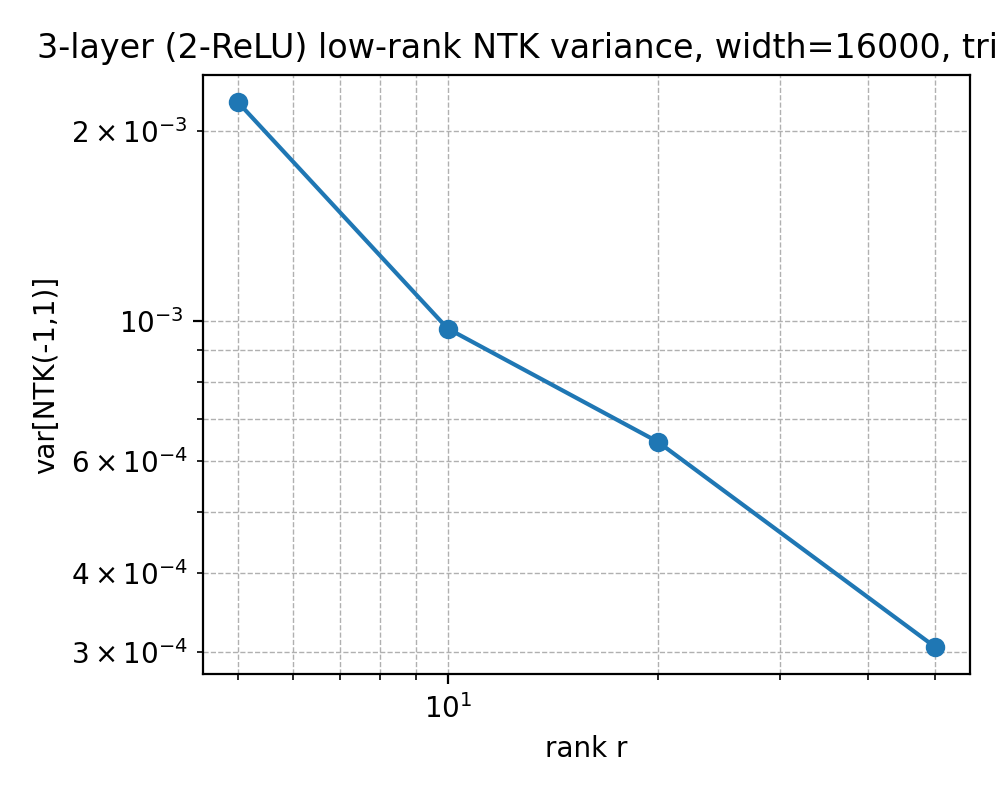
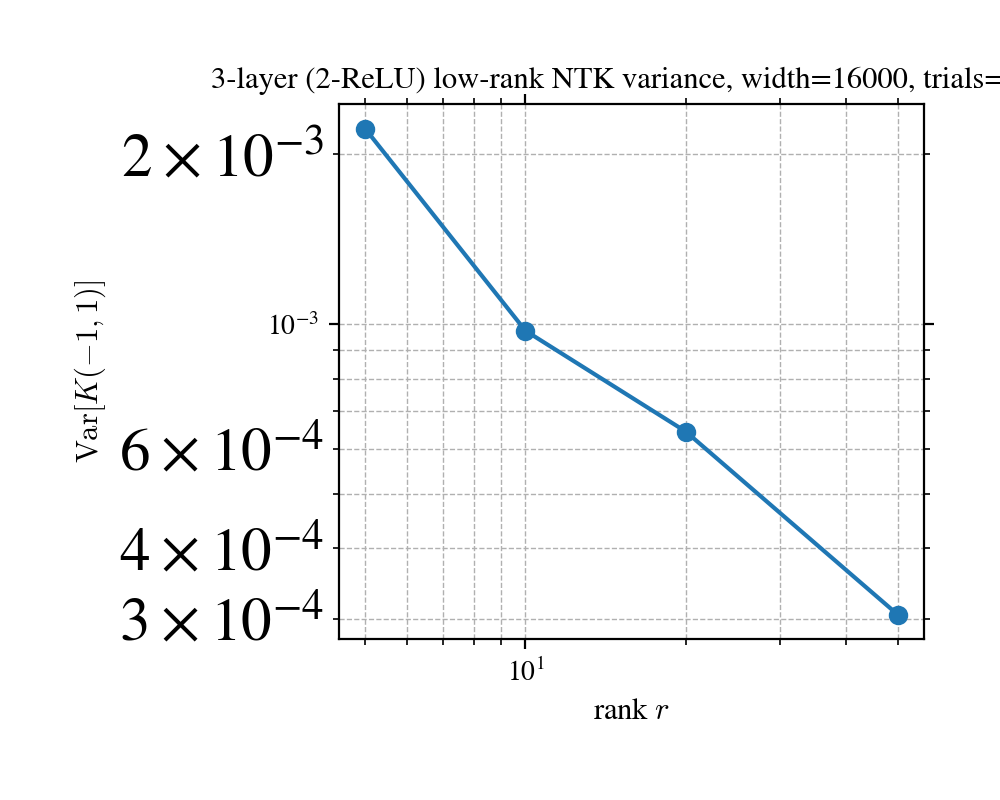
before reruning

diff --git a/experiments/ntkvariance/condition_number_highdim_spherical.py b/experiments/ntkvariance/condition_number_highdim_spherical.py
@@ -122,65 +122,68 @@ def proxy_gram_from_rho(r: int, L: int, rho_mat: np.ndarray) -> np.ndarray:
 def main() -> None:
     width = 16000
     n = 32
-    d = 256
     L_val = 2
     n_trials = 30
     seed_data = 123
     seed_init = 200
 
-    ranks = [5, 10, 15, 20, 30, 50, 75, 100]
-
-    rng_data = np.random.default_rng(seed_data)
-    x = sample_unit_sphere(n=n, d=d, rng=rng_data)
-    rho_mat = x.T @ x
-    np.fill_diagonal(rho_mat, 1.0)
-    max_off = float(np.max(np.abs(rho_mat - np.eye(n))))
-    print(f"high-dim spherical: d={d}, n={n}, max_{{|rho_ij|}} (i!=j) = {max_off:.4f} (expect O(1/sqrt(d)) ~ {1/math.sqrt(d):.4f})")
-
-    proxy_kappas = []
-    for r in ranks:
-        M = proxy_gram_from_rho(r=r, L=L_val, rho_mat=rho_mat)
-        kappa = condition_number_centered(M)
-        proxy_kappas.append(kappa)
-
-    emp_means = []
-    emp_stds = []
-    for r in ranks:
-        kappas = np.empty((n_trials,), dtype=np.float64)
-        for t in range(n_trials):
-            rng = np.random.default_rng(seed_init + 1000 * r + t)
-            K = empirical_ntk_gram_3layer(width=width, r=r, x=x, rng=rng)
-            kappas[t] = condition_number_centered(K)
-        emp_means.append(float(kappas.mean()))
-        emp_stds.append(float(kappas.std(ddof=1)))
+    ranks = [10, 15, 20, 30, 50, 75, 100, 200]
+    dims = [(256, "C0", "C0"), (128, "red", "red")]  # (d, proxy_color, empirical_color); d=256 both blue
 
     fig, ax = plt.subplots(1, 1, figsize=(6, 5))
     ax.axhline(1.0, color="gray", linestyle="--", linewidth=1.5, label=r"$\kappa_\perp=1$ (equicorrelated limit)")
-    ax.plot(ranks, proxy_kappas, marker="s", color="C0", label="proxy (from sampled $\\rho_{ij}$)")
-    ax.errorbar(
-        ranks,
-        emp_means,
-        yerr=emp_stds,
-        marker="o",
-        capsize=3,
-        color="C1",
-        label="empirical (mean $\\pm$ std)",
-    )
-    ax.set_xlabel("bottleneck rank $r$")
-    ax.set_ylabel(r"condition number $\kappa$ on $\mathbf{1}^\perp$")
-    ax.set_title(f"High-dim spherical: i.i.d. uniform on $S^{{d-1}}$, $d$={d}, $n$={n}, $L$={L_val}")
+
+    for d, proxy_color, emp_color in dims:
+        rng_data = np.random.default_rng(seed_data + d)
+        x = sample_unit_sphere(n=n, d=d, rng=rng_data)
+        rho_mat = x.T @ x
+        np.fill_diagonal(rho_mat, 1.0)
+        max_off = float(np.max(np.abs(rho_mat - np.eye(n))))
+        print(f"high-dim spherical: d={d}, n={n}, max_{{|rho_ij|}} (i!=j) = {max_off:.4f} (expect O(1/sqrt(d)) ~ {1/math.sqrt(d):.4f})")
+
+        proxy_kappas = []
+        for r in ranks:
+            M = proxy_gram_from_rho(r=r, L=L_val, rho_mat=rho_mat)
+            kappa = condition_number_centered(M)
+            proxy_kappas.append(kappa)
+
+        emp_means = []
+        emp_stds = []
+        for r in ranks:
+            kappas = np.empty((n_trials,), dtype=np.float64)
+            for t in range(n_trials):
+                rng = np.random.default_rng(seed_init + 1000 * r + t + d * 10000)
+                K = empirical_ntk_gram_3layer(width=width, r=r, x=x, rng=rng)
+                kappas[t] = condition_number_centered(K)
+            emp_means.append(float(kappas.mean()))
+            emp_stds.append(float(kappas.std(ddof=1)))
+
+        ax.plot(ranks, proxy_kappas, marker="s", color=proxy_color, label=f"proxy, d={d}")
+        ax.errorbar(
+            ranks,
+            emp_means,
+            yerr=emp_stds,
+            marker="o",
+            capsize=3,
+            color=emp_color,
+            label=f"empirical d={d} (mean ± std)",
+        )
+        for i, r in enumerate(ranks):
+            print(f"d={d} r={r:>3d}  proxy_kappa={proxy_kappas[i]:.4f}  emp_mean={emp_means[i]:.4f}  emp_std={emp_stds[i]:.4f}")
+
+    ax.set_xlabel("bottleneck rank $r$", fontsize=10)
+    ax.set_ylabel(r"condition number $\kappa$ on $\mathbf{1}^\perp$", fontsize=10)
+    ax.set_title(f"High-dim spherical: i.i.d. uniform on $S^{{d-1}}$, $n$={n}, $L$={L_val}", fontsize=10)
+    ax.tick_params(axis="both", labelsize=9)
     ax.set_xscale("log")
     ax.set_yscale("log")
     ax.grid(True, which="both", linestyle="--", linewidth=0.5)
-    ax.legend(loc="upper right", fontsize=10)
+    ax.legend(loc="upper right", fontsize=9)
     ax.set_ylim(bottom=0.5)
     plt.tight_layout()
     out_dir = Path(__file__).resolve().parent
     plt.savefig(out_dir / "condition_number_highdim_spherical.png", dpi=300)
     plt.close()
-
-    for i, r in enumerate(ranks):
-        print(f"r={r:>3d}  proxy_kappa={proxy_kappas[i]:.4f}  emp_mean={emp_means[i]:.4f}  emp_std={emp_stds[i]:.4f}")
 
 
 if __name__ == "__main__":

diff --git a/experiments/ntkvariance/minimalvariance.py b/experiments/ntkvariance/minimalvariance.py
@@ -70,7 +70,7 @@ def ntk_entry_pair(width: int, r: int, x: float, xp: float, rng: np.random.Gener
 
 def main() -> None:
     width = 16000
-    ranks = [5, 10, 20, 50]
+    ranks = [5, 10, 20, 50, 75, 100]  # up to e2
     n_trials = 100
     x = -1.0
     xp = 1.0
@@ -87,15 +87,22 @@ def main() -> None:
         means.append(float(values.mean()))
         variances.append(float(values.var(ddof=1)))
 
-    plt.figure(figsize=(5, 4))
-    plt.loglog(ranks, variances, marker="o")
-    plt.xlabel("rank r")
-    plt.ylabel("var[NTK(-1,1)]")
-    plt.title(f"3-layer (2-ReLU) low-rank NTK variance, width={width}, trials={n_trials}")
-    plt.grid(True, which="both", linestyle="--", linewidth=0.5)
+    fig, ax = plt.subplots(1, 1, figsize=(5, 4))
+    ax.loglog(ranks, variances, marker="o", label="empirical")
+    r_min, v_min = ranks[0], variances[0]
+    r_ref = np.asarray(ranks, dtype=np.float64)
+    v_ref = v_min * (float(r_min) / r_ref)  # 1/r baseline through lowest rank
+    ax.loglog(ranks, v_ref, linestyle="--", color="gray", linewidth=1.2, label=r"$\propto 1/r$ baseline")
+    ax.set_xlabel("rank $r$", fontsize=11)
+    ax.set_ylabel(r"$\mathrm{Var}[K(-1,1)]$", fontsize=11)
+    ax.set_title(f"3-layer (2-ReLU) low-rank NTK variance, width={width}, trials={n_trials}", fontsize=11)
+    ax.tick_params(axis="both", labelsize=8)
+    ax.legend(loc="upper right", fontsize=9)
+    ax.grid(True, which="both", linestyle="--", linewidth=0.5)
     plt.tight_layout()
     out_path = Path(__file__).resolve().parent / "variance_vs_r.png"
-    plt.savefig(out_path, dpi=200)
+    fig.savefig(out_path, dpi=200)
+    plt.close(fig)
 
     for r, m, v in zip(ranks, means, variances):
         print(f"r={r:>3d}  mean={m:.6e}  var={v:.6e}")

diff --git a/experiments/ntkvariance/condition_number_non_equicorrelated.py b/experiments/ntkvariance/condition_number_non_equicorrelated.py
@@ -111,7 +111,7 @@ def clustered_sphere_data(
 
 
 def main() -> None:
-    width = 16000
+    width = 20000  # 2e4 for slower convergence (non-equicorrelated)
     n = 48
     d = 64
     n_clusters = 4
@@ -120,7 +120,7 @@ def main() -> None:
     seed_data = 444
     seed_init = 555
 
-    ranks = [5, 10, 15, 20, 30, 50, 75, 100]
+    ranks = [10, 15, 20, 30, 50, 75, 100, 200, 1000, 2000, 5000, 10000, 100000]  # up to e4, e5
 
     rng_data = np.random.default_rng(seed_data)
     x = clustered_sphere_data(
@@ -151,6 +151,7 @@ def main() -> None:
         emp_stds.append(float(kappas.std(ddof=1)))
 
     fig, ax = plt.subplots(1, 1, figsize=(6, 5))
+    ax.axhline(1.0, color="gray", linestyle="--", linewidth=1.5, label=r"$\kappa_\perp=1$ (equicorrelated)")
     ax.errorbar(
         ranks,
         emp_means,
@@ -159,12 +160,14 @@ def main() -> None:
         capsize=3,
         label="empirical (mean $\\pm$ std)",
     )
-    ax.set_xlabel("bottleneck rank $r$")
-    ax.set_ylabel(r"condition number $\kappa$ on $\mathbf{1}^\perp$")
+    ax.set_xlabel("bottleneck rank $r$", fontsize=11)
+    ax.set_ylabel(r"condition number $\kappa$ on $\mathbf{1}^\perp$", fontsize=11)
     ax.set_title(
         f"Non-equicorrelated (clustered) data: $n$={n}, $d$={d}, "
-        f"$L$=2, {n_clusters} clusters, $\\sigma$={within_sd}"
+        f"$L$=2, {n_clusters} clusters, $\\sigma$={within_sd}",
+        fontsize=11,
     )
+    ax.tick_params(axis="both", labelsize=10)
     ax.set_xscale("log")
     ax.set_yscale("log")
     ax.grid(True, which="both", linestyle="--", linewidth=0.5)

diff --git a/experiments/ntkvariance/condition_number_proxy_empirical.py b/experiments/ntkvariance/condition_number_proxy_empirical.py
@@ -138,7 +138,7 @@ def condition_number_centered(K: np.ndarray) -> float:
 
 
 def main() -> None:
-    width = 16000
+    width = 20000  # 2e4
     n = 32
     d = 64
     rho0 = 0.0
@@ -147,7 +147,7 @@ def main() -> None:
     seed_data = 42
     seed_init = 100
 
-    ranks = [5, 10, 15, 20, 30, 50, 75, 100]
+    ranks = [10, 15, 20, 30, 50, 75, 100, 200, 1000, 2000, 5000, 10000]  # up to e4
 
     rng_data = np.random.default_rng(seed_data)
     x_equi = equicorrelated_data(n=n, d=d, rho0=rho0, rng=rng_data)
@@ -178,15 +178,17 @@ def main() -> None:
         capsize=3,
         label="empirical (mean $\\pm$ std)",
     )
-    ax.set_xlabel("bottleneck rank $r$")
-    ax.set_ylabel(r"condition number $\kappa$ on $\mathbf{1}^\perp$")
+    ax.set_xlabel("bottleneck rank $r$", fontsize=11)
+    ax.set_ylabel(r"condition number $\kappa$ on $\mathbf{1}^\perp$", fontsize=11)
     ax.set_title(
-        f"Equicorrelated data: proxy vs empirical RF-LR NTK, $n$={n}, $L$={L_proxy}, $\\rho_0$={rho0}"
+        f"Equicorrelated data: proxy vs empirical RF-LR NTK, $n$={n}, $L$={L_proxy}, $\\rho_0$={rho0}",
+        fontsize=11,
     )
+    ax.tick_params(axis="both", labelsize=10)
     ax.set_xscale("log")
     ax.set_yscale("log")
     ax.grid(True, which="both", linestyle="--", linewidth=0.5)
-    ax.legend(loc="upper right", fontsize=11)
+    ax.legend(loc="upper right", fontsize=10)
     ax.set_ylim(bottom=0.5)
     plt.tight_layout()
     out_dir = Path(__file__).resolve().parent

diff --git a/experiments/ntkvariance/confirm_depth_scaling.py b/experiments/ntkvariance/confirm_depth_scaling.py
@@ -106,7 +106,8 @@ def main() -> None:
         delta = theta_diag - theta_off
 
         axs1[0].plot(ks, w / ks, linewidth=1.8, label=f"r={r}")
-        axs1[1].plot(ks, (1.0 - rho) * (ks**2), linewidth=1.8, label=f"r={r}")
+        one_minus_rho = np.maximum(1.0 - rho, 1e-300)
+        axs1[1].plot(ks, one_minus_rho, linewidth=1.8, label=f"r={r}")
 
         ths = theta_star(r)
         axs1[2].plot(ks, np.abs(theta_off - ths) * ks, linewidth=1.8, label=f"r={r}")
@@ -117,9 +118,14 @@ def main() -> None:
     axs1[0].grid(True, linestyle="--", linewidth=0.5)
     axs1[0].legend(fontsize=10)
 
-    axs1[1].set_title(r"$(1-\rho_k)\,k^2$ (bounded)")
-    axs1[1].set_xlabel("k")
-    axs1[1].grid(True, linestyle="--", linewidth=0.5)
+    axs1[1].set_title(r"$1-\rho_k$ vs $k$ (log-log)")
+    axs1[1].set_xlabel("$k$")
+    axs1[1].set_ylabel(r"$1-\rho_k$")
+    axs1[1].set_xscale("log")
+    axs1[1].set_yscale("log")
+    k_ref = np.arange(1.0, k_max + 1.0, dtype=np.float64)
+    axs1[1].plot(k_ref, 1.0 / (k_ref**2), linestyle="--", color="gray", linewidth=1.2, label=r"$k^{-2}$ ref")
+    axs1[1].grid(True, which="both", linestyle="--", linewidth=0.5)
     axs1[1].legend(fontsize=10)
 
     axs1[2].set_title(r"$k\,|\Theta^{(k)}(\rho_1)-\Theta_\star(r)|$ (bounded)")

diff --git a/experiments/ntkvariance/scalingdepth.py b/experiments/ntkvariance/scalingdepth.py
@@ -79,12 +79,12 @@ def main() -> None:
     plt.figure(figsize=(7, 5))
     for r in ranks:
         products, bounds = compute_top_products(rhos=rhos, r=r, c0=c0)
-        plt.semilogy(j_values[1:], products[1:], marker=".", linewidth=1.5, label=f"r={r} (mean-field)")
+        plt.semilogy(j_values[1:], products[1:], marker=".", linewidth=1.5, label=f"r={r}")
         plt.semilogy(j_values[1:], bounds[1:], linestyle="--", linewidth=1.0, label=f"(c0/r)^j, r={r}")
 
     plt.xlabel("j = L - ℓ (layers above ℓ)")
     plt.ylabel(r"$\prod_{k=\ell+1}^{L} \dot{\Sigma}^{(k)}$")
-    plt.title(f"exponential depth suppression, ReLU EOC, x={x}, x'={xp}, L={depth}, c0={c0}")
+    plt.title(f"exponential depth suppression, ReLU EOC, x={x}, x'={xp}, L={depth}, c0={c0}", fontsize=11)
     plt.grid(True, which="both", linestyle="--", linewidth=0.5)
     plt.legend(fontsize=10, ncol=2)
     plt.tight_layout()

diff --git a/experiments/ntkvariance/README.md b/experiments/ntkvariance/README.md
@@ -16,6 +16,25 @@ which includes (in order):
 
 All scripts here are **headless** (matplotlib `"Agg"` backend) and save figures next to the script.
 
+## Experimental setups (depth, width, ranks, etc.)
+
+| Script | Depth \(L\) | Width | \(n\) | \(d\) | Ranks \(r\) | Trials / notes |
+|--------|-------------|--------|-------|-------|-------------|----------------|
+| `confirm_depth_scaling.py` | \(k_{\max}=4000\) (proxy recursion) | — | 64 (Prop 17) | — | [5, 10, 20, 50] | deterministic |
+| `scalingdepth.py` | \(L=200\) | — | — | — | [5, 10, 20, 50] | deterministic, \(c_0=1/2\) |
+| `minimalvariance.py` | 2 (3-layer, 2 ReLU) | 16000 | 2 pts \(x=-1,x'=1\) | 1 (scalar) | [5, 10, 20, 50] | 100 |
+| `min_eig_distribution.py` | 2 | 16000 | 64 | 16 | [5, 10, 20, 50] | 50 |
+| `condition_number_proxy_empirical.py` | 2 | 20000 | 32 | 64 | [10,…,1e4] | 40, equicorrelated \(\rho_0=0\) |
+| `condition_number_highdim_spherical.py` | 2 | 16000 | 32 | 256, 128 | [10,…,200] | 30 per \(d\) |
+| `condition_number_non_equicorrelated.py` | 2 | 20000 | 48 | 64 | [10,…,1e4,1e5] | 30, 4 clusters (slower conv.) |
+| `kernel_regression_risk.py` | 2 | 12000 | 64 train, 256 test | 32 | [5,…,100] | 20 |
+| `fisher_kibble_and_decay_constants.py` | — | — | — | — | \(r\in[3,200]\) (grid) | analytic (no MC) |
+
+- **Depth:** All finite-width NTK scripts use a **3-layer (2 ReLU)** RF-LR architecture, i.e. \(L=2\) hidden ReLU layers and one output layer; the proxy/deterministic scripts iterate the recursion to large \(k\) (e.g. \(k_{\max}=4000\) or \(L=200\)).
+- **Width:** Hidden layer width is 12000 or 16000 in Monte Carlo scripts so that finite-width variance is small and the proxy limit is visible.
+- **Ranks:** Bottleneck rank \(r\) is swept as listed; equicorrelated proxy–empirical goes to \(10^4\), non-equicorrelated to \(10^4\) and \(10^5\) (with width \(2\times 10^4\)) to show slower convergence toward \(\kappa_\perp=1\).
+- **Data:** \(n\) = number of inputs, \(d\) = input dimension; equicorrelated/high-dim spherical use unit-sphere or equicorrelated design; kernel regression uses train/test split on the sphere.
+
 ## 1) Deterministic mean-field / proxy depth scaling (Theorem 15, Props 16–17)
 
 ### `confirm_depth_scaling.py`
@@ -43,8 +62,8 @@ All scripts here are **headless** (matplotlib `"Agg"` backend) and save figures 
 
 **Outputs**
 
-- `confirm_thm15.png`
-- `confirm_prop17.png`
+- **`confirm_thm15.png`** — Four panels (Theorem 15): (1) \(w_k/k\) vs \(k\) (should stabilize); (2) \(1-\rho_k\) vs \(k\) on log–log with \(k^{-2}\) reference; (3) \(k|\Theta^{(k)}(\rho_1)-\Theta_\star(r)|\) vs \(k\) (bounded); (4) \(rk(\Theta_{\rm diag}^{(k)}-\Theta_{\rm off}^{(k)})\) vs \(k\) (stabilizes). One curve per rank \(r\in\{5,10,20,50\}\).
+- **`confirm_prop17.png`** — Two panels (Proposition 17, equicorrelated \(n=64\), \(\rho_0=0\)): (1) spike saturation \(L|\lambda_1/n-\Theta_\star(r)|/n\) vs \(L\) (log–log); (2) gap scaling \(rL\lambda_\perp\) vs \(L\) (log–log). One curve per \(r\).
 
 ## 2) Exponential depth suppression factor (closed form product bound)
 
